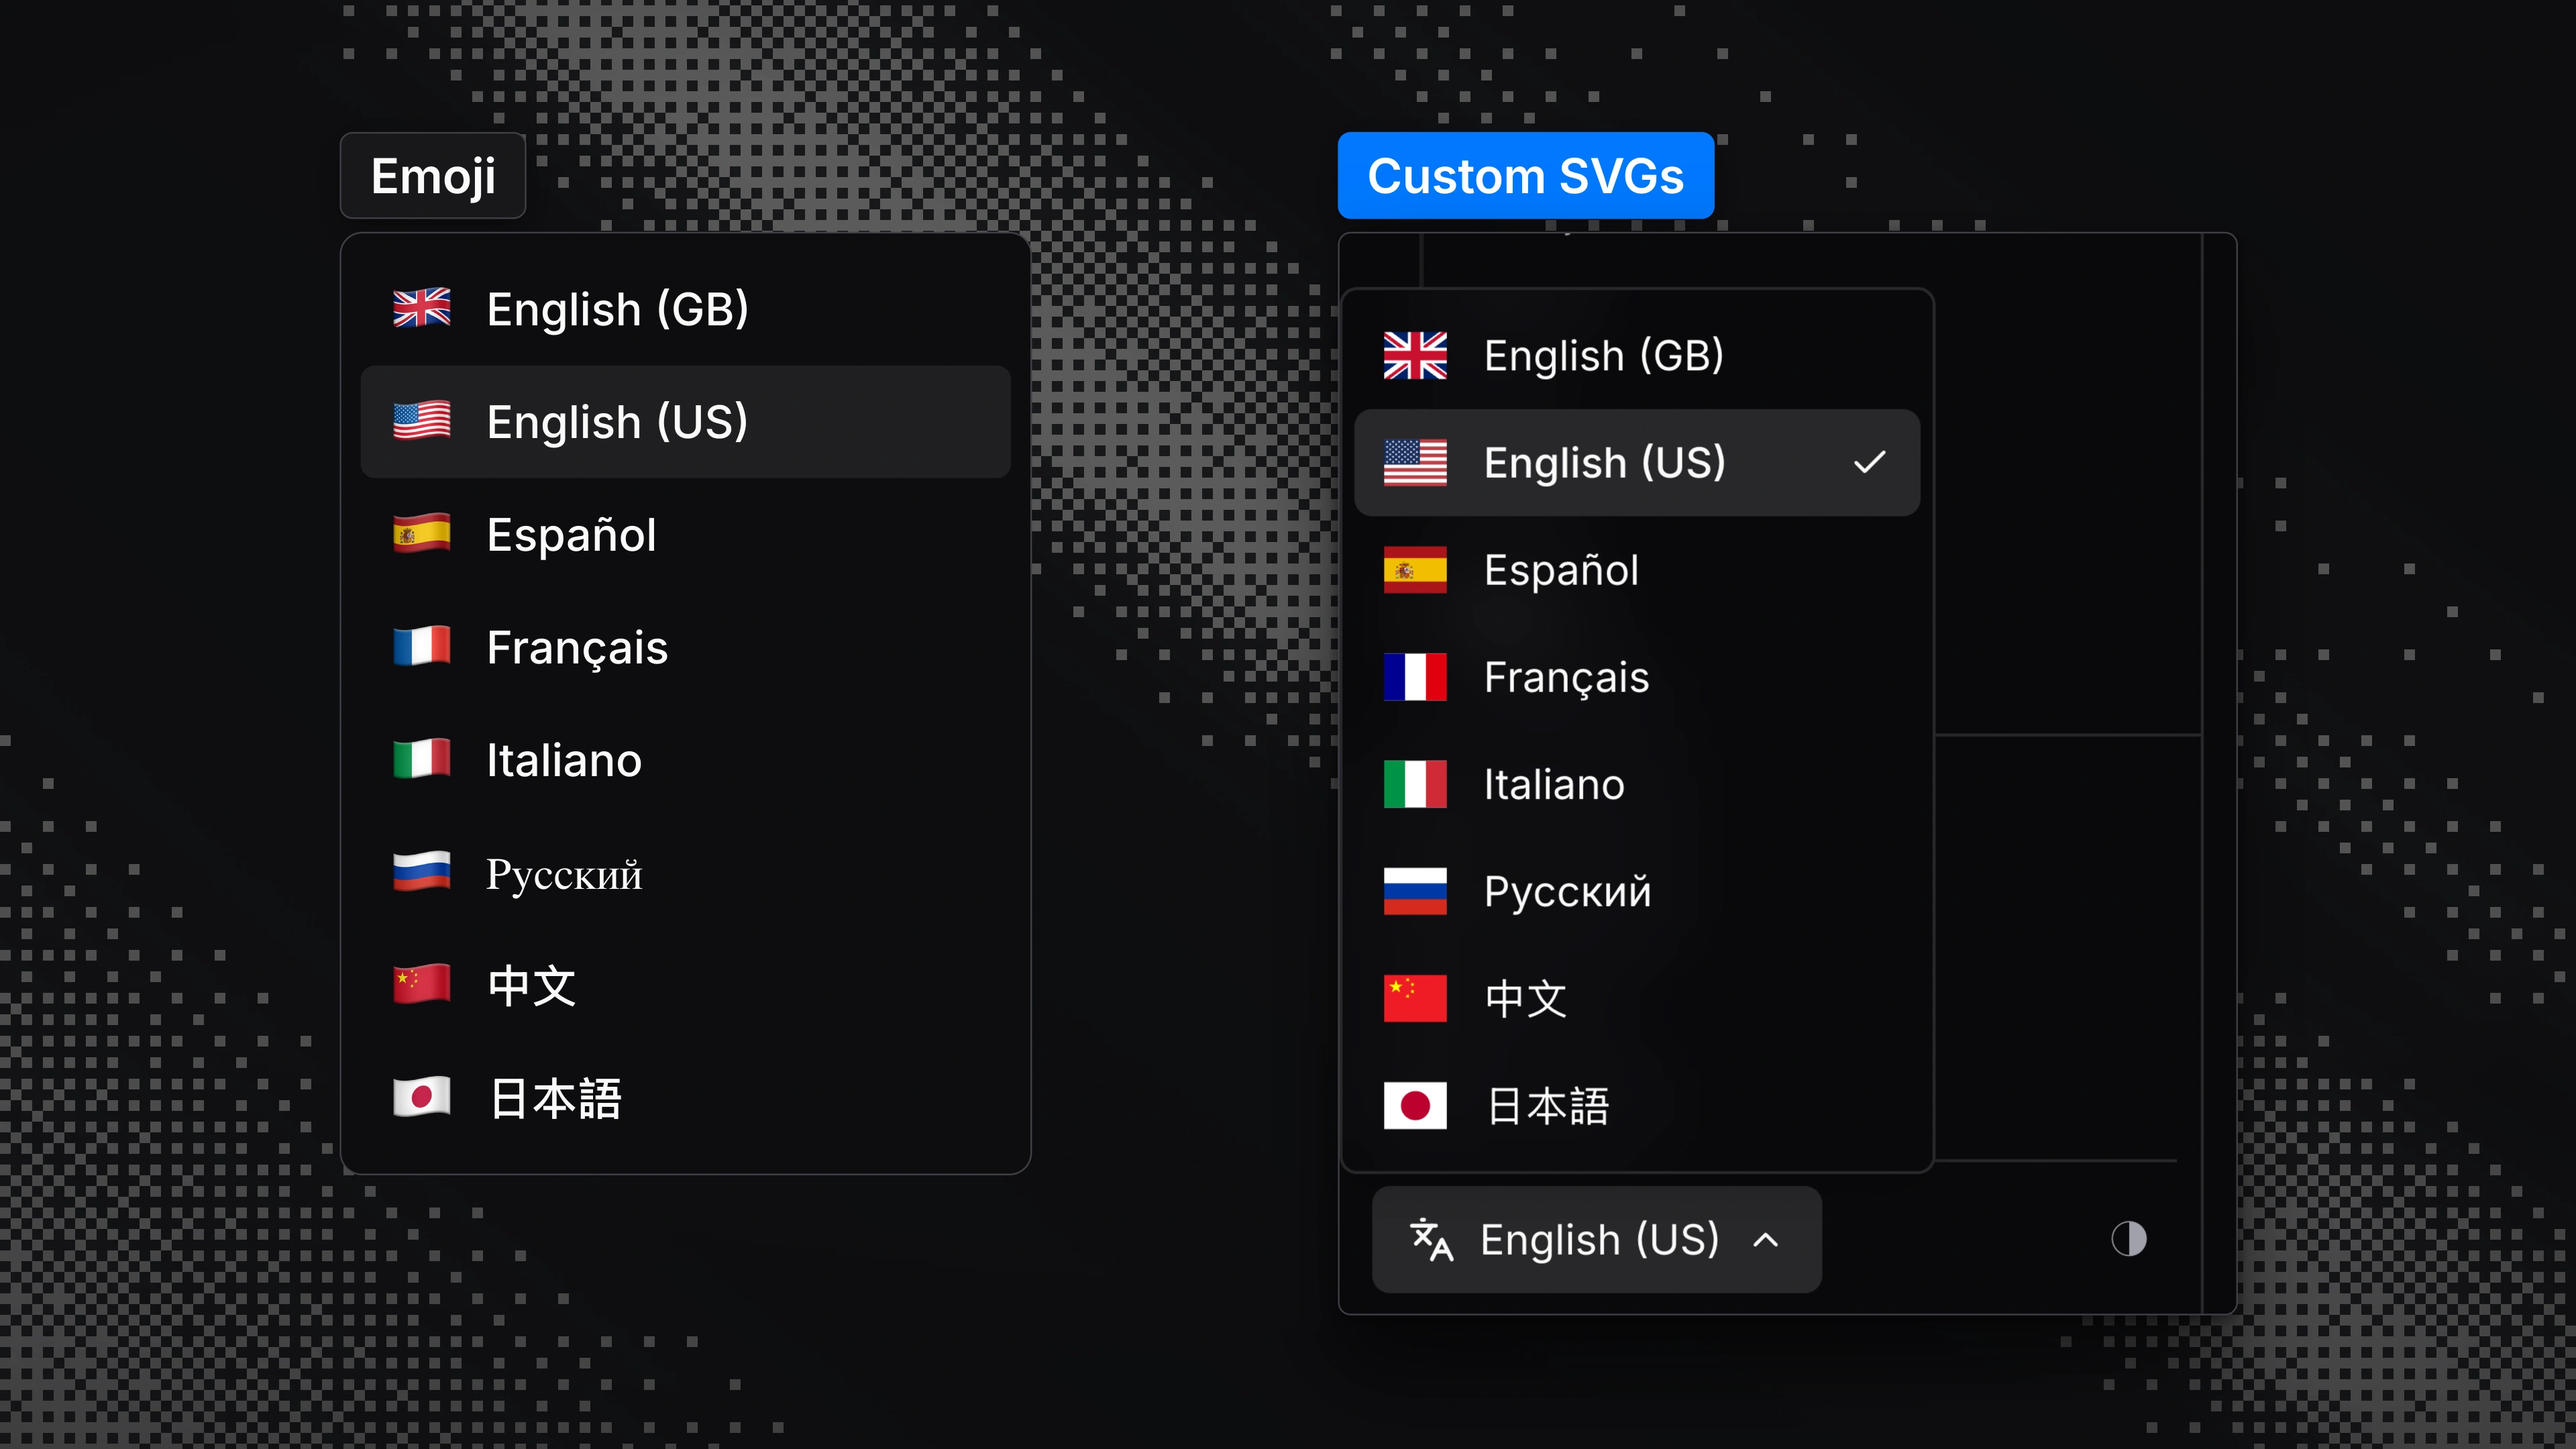
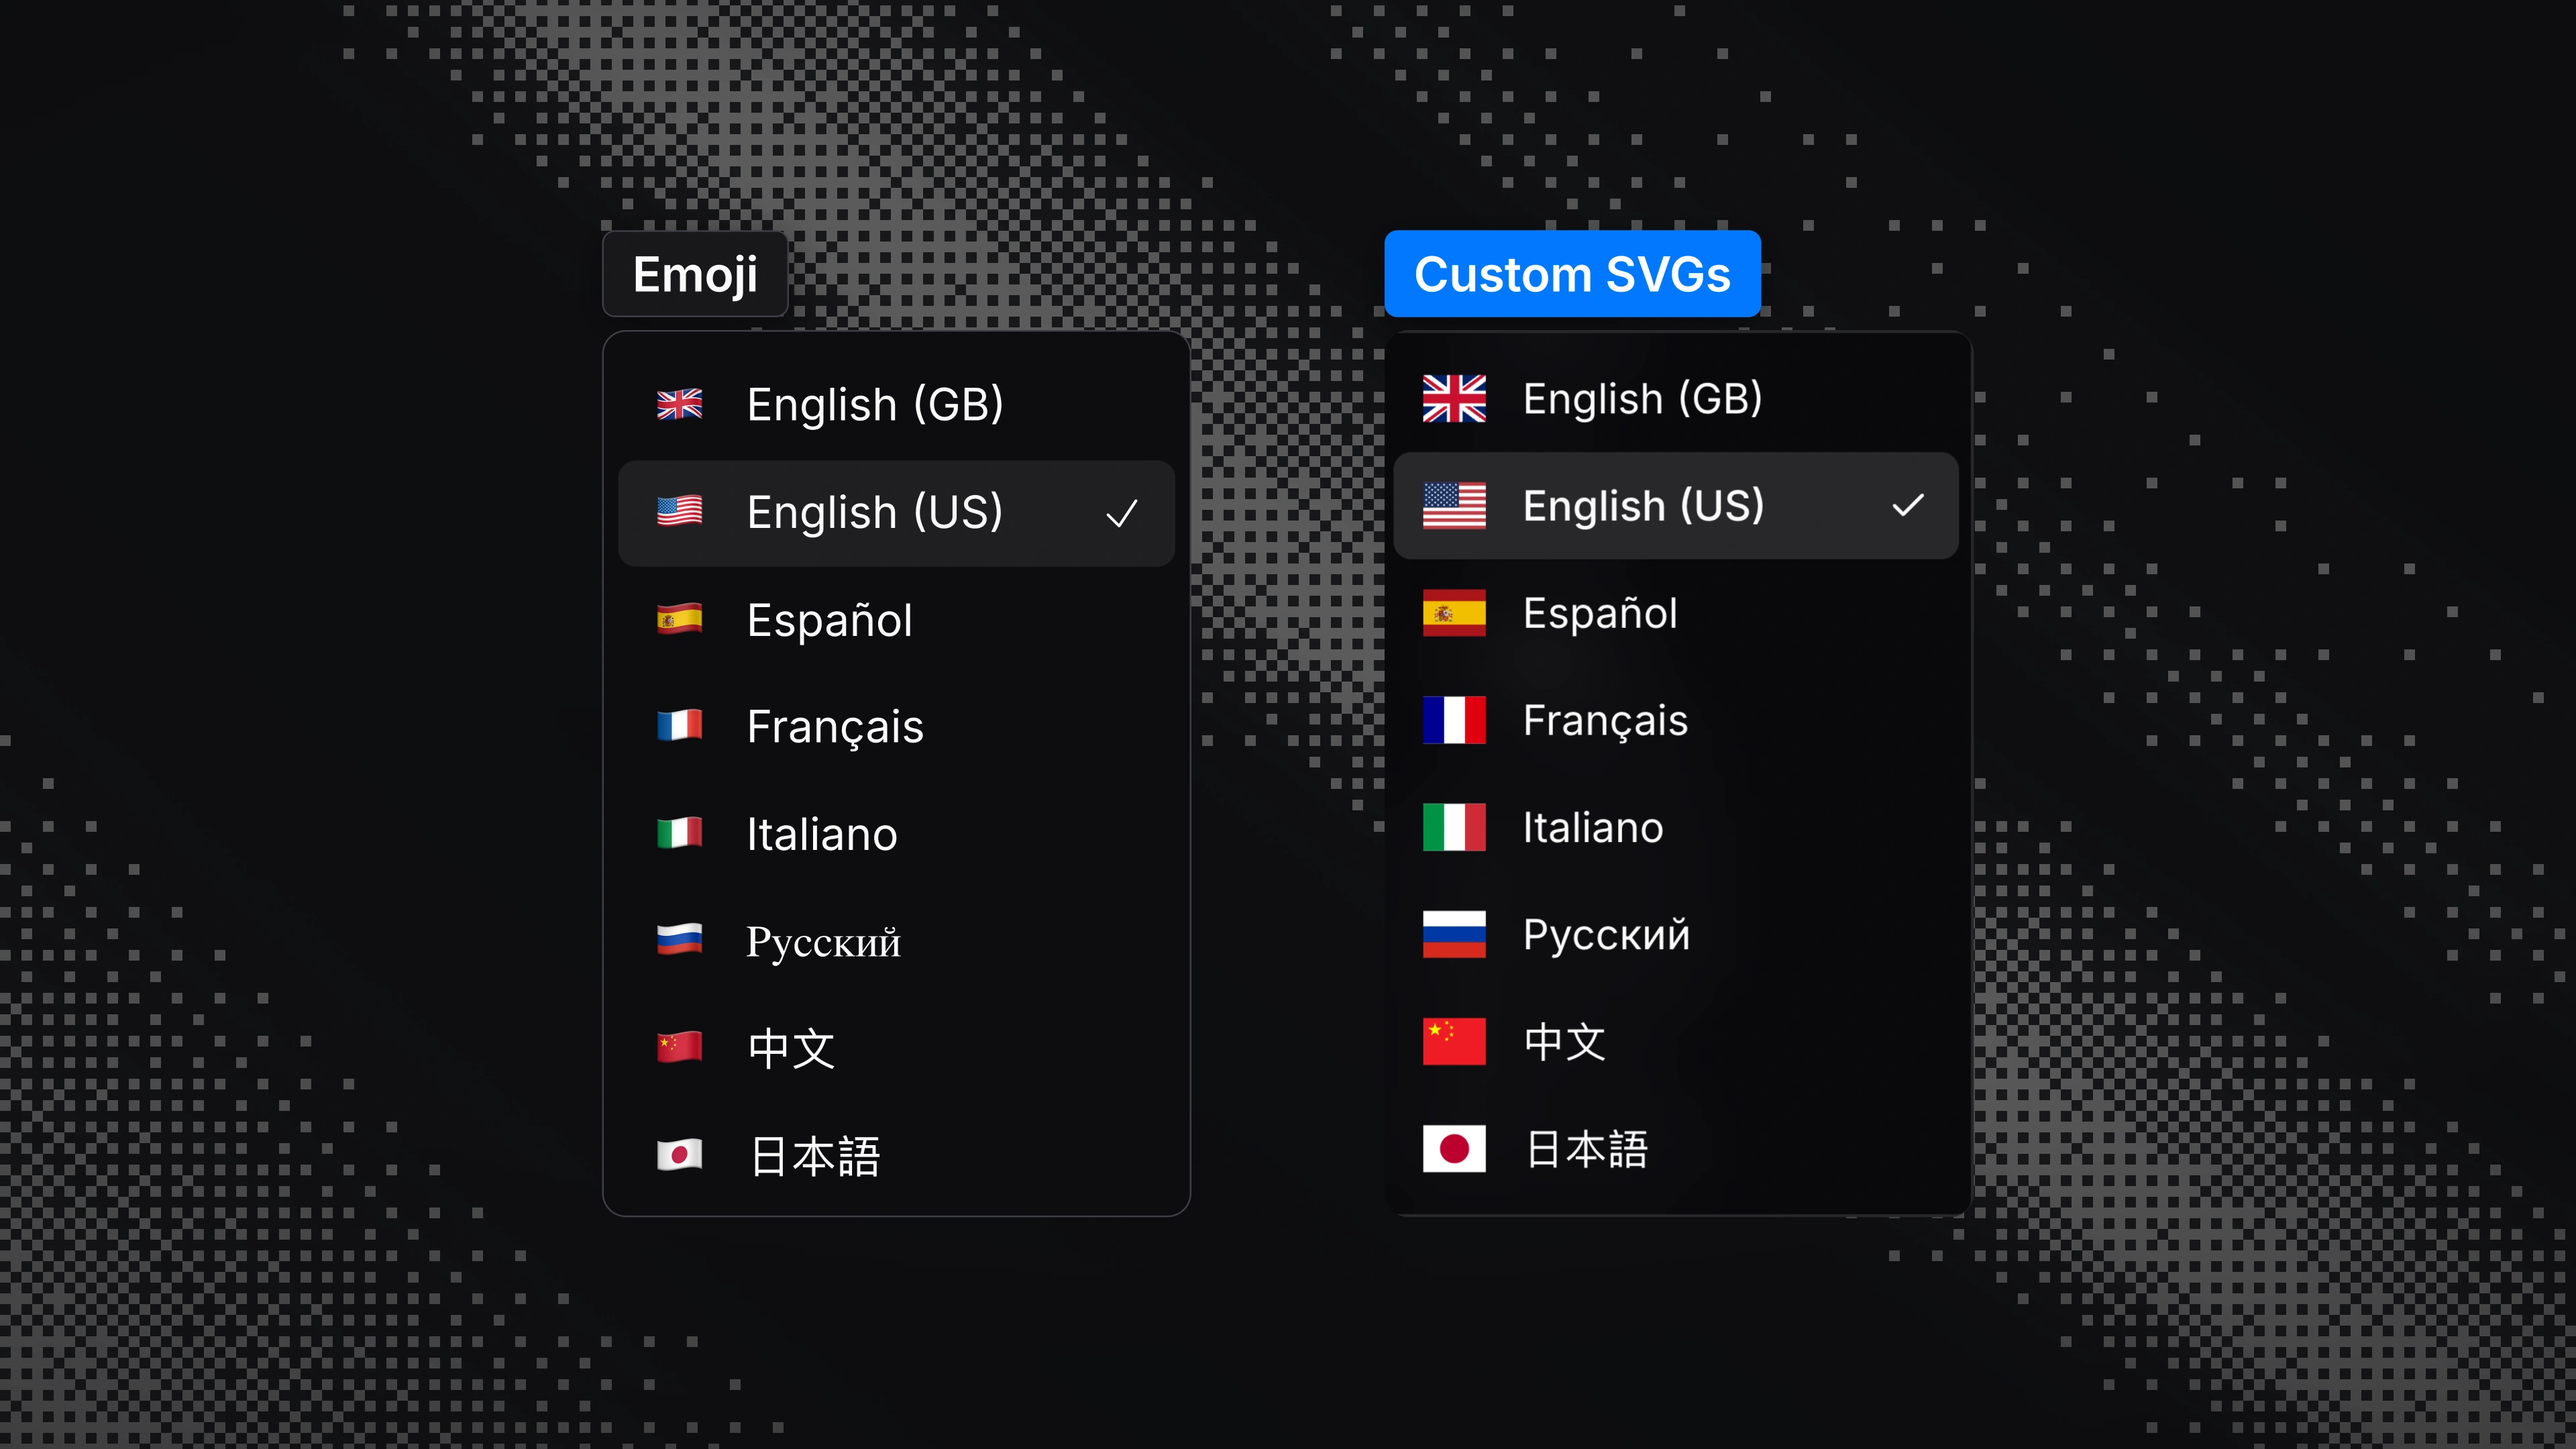
Flags slide as twin menus; mock without its caption

diff --git a/graphics/build/gen-visuals.js b/graphics/build/gen-visuals.js
@@ -327,15 +327,16 @@ add('E3-corners', 'E', 'Corners', 'silk2', 'The old pill button and search field
   [[4, 'controls'], [6, 'buttons · fields'], [8, 'cards'], [12, 'panels'], [999, 'pills']].forEach(([r, k], i) => { const y = 130 + 84 + i * 104; const bad = r === 999; h += `<div style="position:absolute;left:980px;top:${px(y)};width:200px;height:76px;border-radius:${px(Math.min(r, 38))};border:${bad ? '3px' : '2.5px'} solid ${bad ? '#f0524f' : 'rgba(250,250,250,.55)'};background:${bad ? 'rgba(240,82,79,.3)' : '#0c0c0f'}"></div>`; h += `<div class="txt" style="left:1210px;top:${px(y + 6)}"><div class="mono" style="font-size:28px;color:${bad ? '#f0524f' : 'var(--text)'}">${bad ? '9999' : r} px</div><div style="font:500 26px 'Inter';color:${bad ? 'var(--text)' : 'var(--muted)'};margin-top:6px">${k}</div></div>`; if (bad) h += `<div class="txt" style="left:1440px;top:${px(y + 16)};display:inline-grid;place-items:center;width:44px;height:44px;border-radius:50%;background:rgba(240,82,79,.94);color:#fafafa;box-shadow:0 0 0 3px rgba(9,9,11,.6)">${ico('x-mark', 24)}</div>`; });
   return h;
 });
-add('E4-micro-ui', 'E', 'Flags, not emojis', 'silk3', 'The language menu with its custom matte flag SVGs beside the same list drawn with emoji flags, which are glossy and change from platform to platform.', () => {
+add('E4-micro-ui', 'E', 'Flags, not emojis', 'silk3', 'The language menu twice at the same size: the real one with its custom matte flag SVGs, and the same list drawn with emoji flags, which are glossy and change from platform to platform.', () => {
   let h = '';
   const names = ['English (GB)', 'English (US)', 'Español', 'Français', 'Italiano', 'Русский', '中文', '日本語'], flags = ['🇬🇧', '🇺🇸', '🇪🇸', '🇫🇷', '🇮🇹', '🇷🇺', '🇨🇳', '🇯🇵'];
-  const EX = 200, EY = 140;
+  // the real popover card in the capture: 198 by 298 CSS px, eight 36px rows inset 5px, 7px of padding
+  const card = { x: 2, y: 554, w: 198, h: 298 }, mS = 1.85, W = card.w * mS, HH = card.h * mS, GAPX = 120, EY = 150;
+  const EX = (1600 - (2 * W + GAPX)) / 2, MX = EX + W + GAPX; const k = (v) => px(v * mS);
   h += tag('Emoji', null, EX, EY - 62, 'dark');
-  h += `<div class="txt" style="left:${px(EX)};top:${px(EY)};width:430px;padding:12px;border-radius:14px;background:#0c0c0f;border:1px solid var(--border2)">${names.map((n, i) => `<div style="display:flex;align-items:center;gap:20px;height:70px;padding:0 18px;border-radius:9px;font:500 28px/1 'Inter';color:#fafafa;${i === 1 ? 'background:rgba(250,250,250,.08)' : ''}"><span style="font-size:40px;line-height:1">${flags[i]}</span><span>${n}</span></div>`).join('')}</div>`;
-  const MX = 820, mS = 1.85, menu = { x: 0, y: 548, w: 290, h: 352 };
+  h += `<div class="txt" style="left:${px(EX)};top:${px(EY)};width:${px(W)};height:${px(HH)};box-sizing:border-box;padding:${k(7)} ${k(5)};border-radius:${k(8)};background:#0c0c0f;border:1px solid var(--border2)">${names.map((n, i) => `<div style="display:flex;align-items:center;gap:${k(12)};height:${k(36)};padding:0 ${k(10)};border-radius:${k(6)};font:400 ${k(15)}/1 'Inter';color:#fafafa;${i === 1 ? 'background:rgba(250,250,250,.08)' : ''}"><span style="font-size:${k(17)};line-height:1;width:${k(21)};text-align:center">${flags[i]}</span><span>${n}</span>${i === 1 ? `<span style="margin-left:auto;display:inline-flex;color:#fafafa">${ico('check', 15 * mS)}</span>` : ''}</div>`).join('')}</div>`;
   h += tag('Custom SVGs', null, MX, EY - 62);
-  h += crop('langMenu', menu, { x: MX, y: EY, s: mS });
+  h += crop('langMenu', card, { x: MX, y: EY, s: mS, pad: 0, border: false, shadow: false, r: 8 * mS });
   return h;
 });
 add('E6-sidebar-mask', 'E', 'Sidebar mask (animated)', 'u58', 'The React reference sidebar recorded live: clicking from Configuration down through the Components children, the blue thumb sliding along the rail and through the bend where the tree nests. Delivered as MP4 and GIF as well as a still.', () => {
@@ -376,7 +377,7 @@ add('F1-hit-list', 'F', 'Hit list', 'u57', 'The ten anti-patterns as a two-colum
   return h;
 });
 
-add('F2-spot-the-antipatterns', 'F', 'Spot the anti-patterns', 'silk1', 'An illustrative generic mock with numbered red callouts; labelled as a mock.', () => {
+add('F2-spot-the-antipatterns', 'F', 'Spot the anti-patterns', 'silk1', 'An illustrative generic mock with numbered red callouts.', () => {
   let h = ''; const X = 64, Y = 96, W = 800, H = 704;
   // the mock is drawn at label scale (nothing under 27px) and cropped to its hero so it still fits beside the legend
   h += `<div style="position:absolute;left:${px(X)};top:${px(Y)};width:${px(W)};height:${px(H)};border-radius:36px;background:linear-gradient(160deg,#141826,#0e1018);border:1px solid rgba(120,140,255,.35);box-shadow:0 0 0 1px rgba(120,140,255,.15),0 0 80px rgba(90,110,255,.25);overflow:hidden">
@@ -398,7 +399,6 @@ add('F2-spot-the-antipatterns', 'F', 'Spot the anti-patterns', 'silk1', 'An illu
   // callouts straddle the mock's left edge (or sit on the thing they point at) so none covers copy
   [[X - 10, Y + 53, 1], [X + 44, Y + 250, 2], [X + 405, Y + 348, 3], [X - 10, Y + 498, 4], [X - 10, Y + 196, 5]].forEach(([x, y, n]) => { h += dot(x, y, n, 'red', 56); });
   ['Eyebrow text', 'Over-rounded boxes', 'Non-solid icons', 'Extraneous explanatory text', 'Spacing unrelated to importance'].forEach((k, i) => { const y = 250 + i * 72; h += dot(904 + 28, y + 23, i + 1, 'red', 56); h += label(904 + 72, y, k); });
-  h += `<div class="txt mono" style="left:${px(X)};top:${px(Y + H + 20)};font-size:27px;color:var(--muted)">Illustrative mock — not a real product</div>`;
   return h;
 });
 add('F3-dont-do', 'F', 'Don’t / Do', 'silk2', 'Three real pairs cropped from old and new.', () => {
